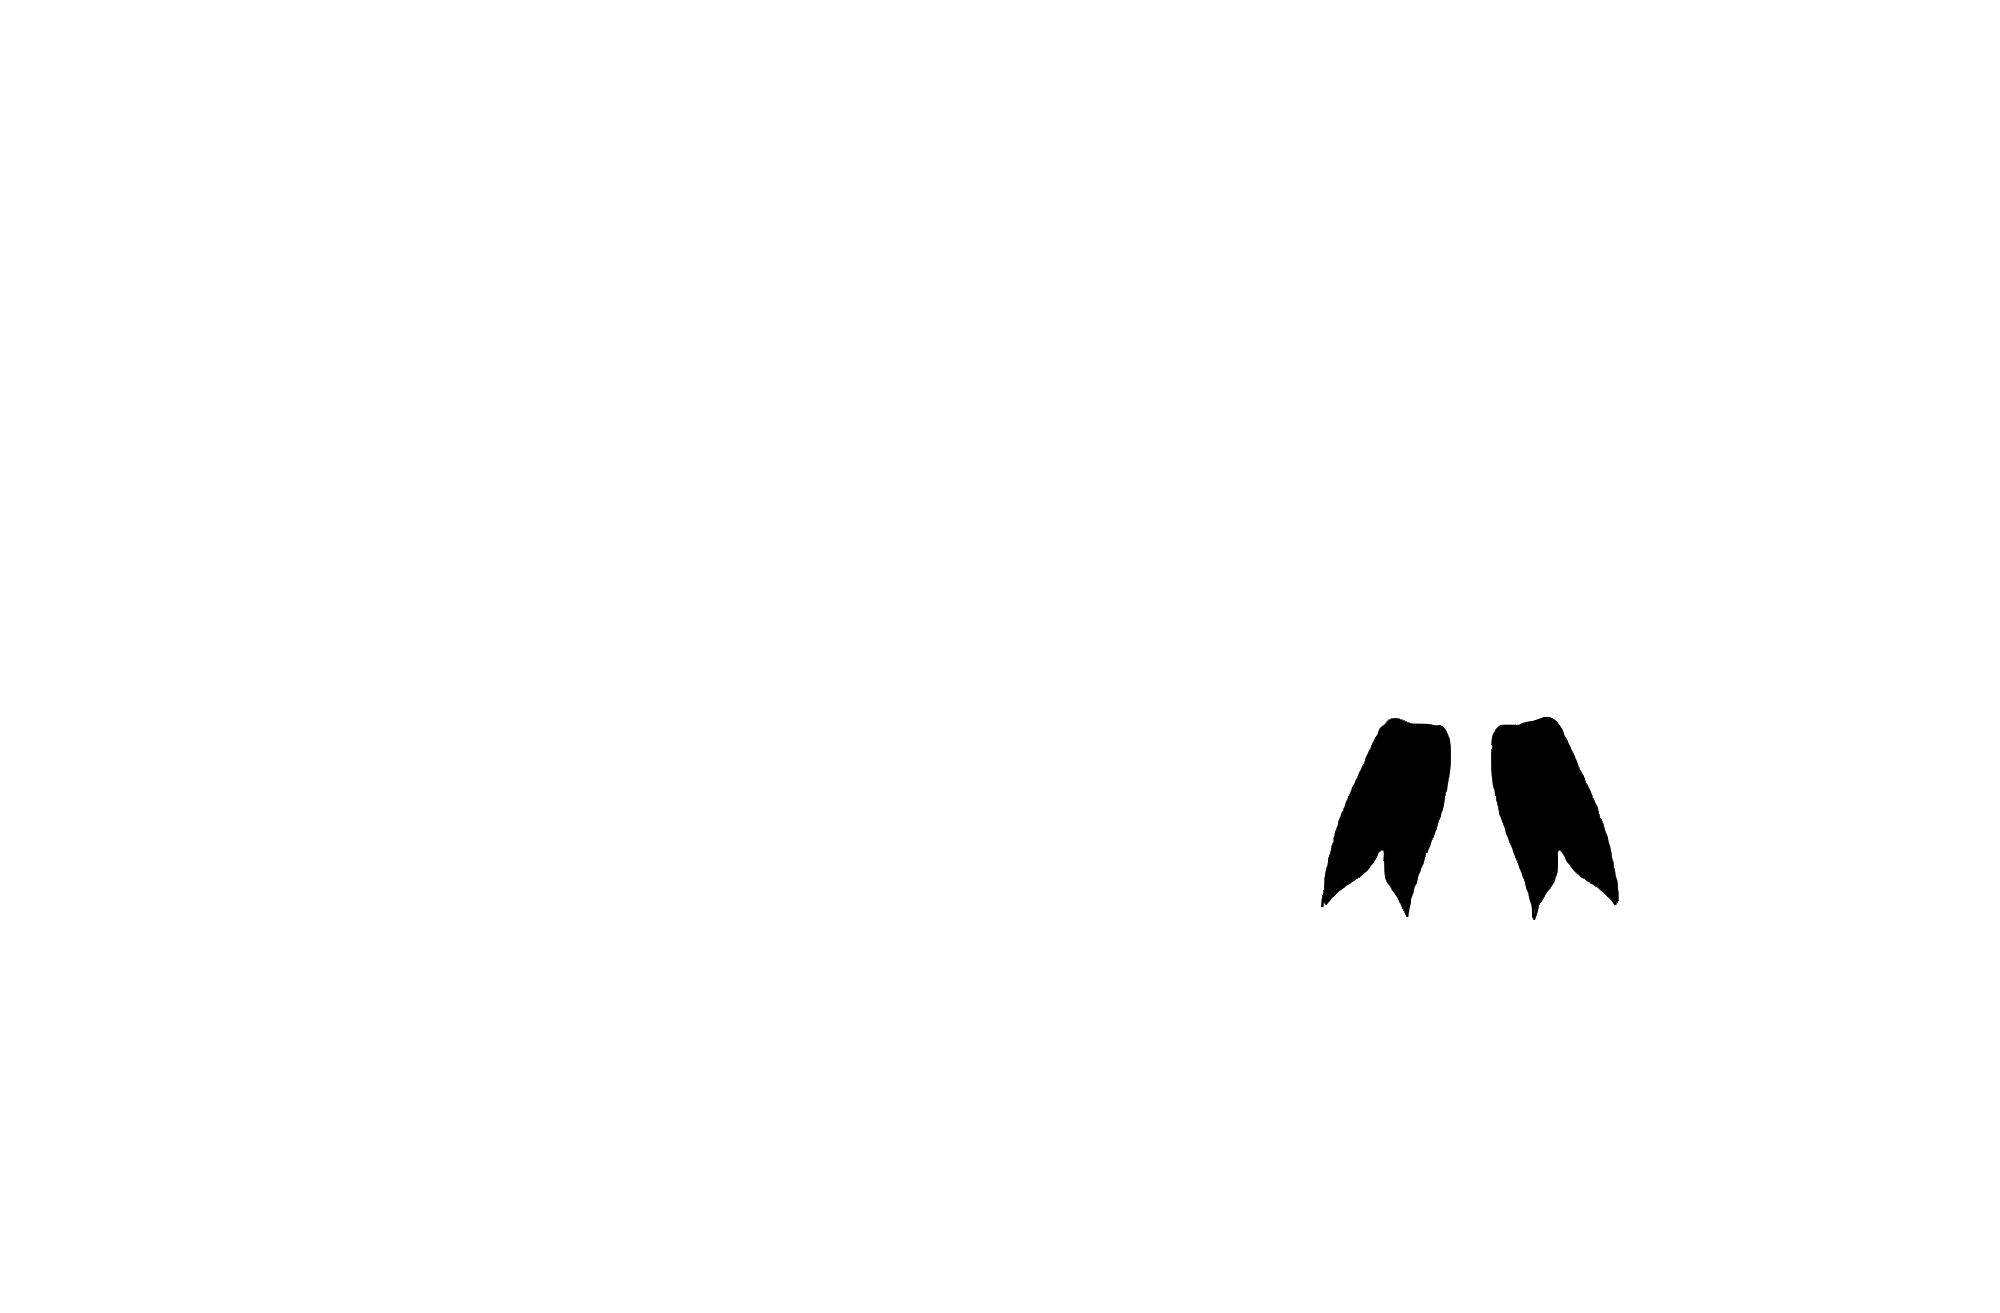
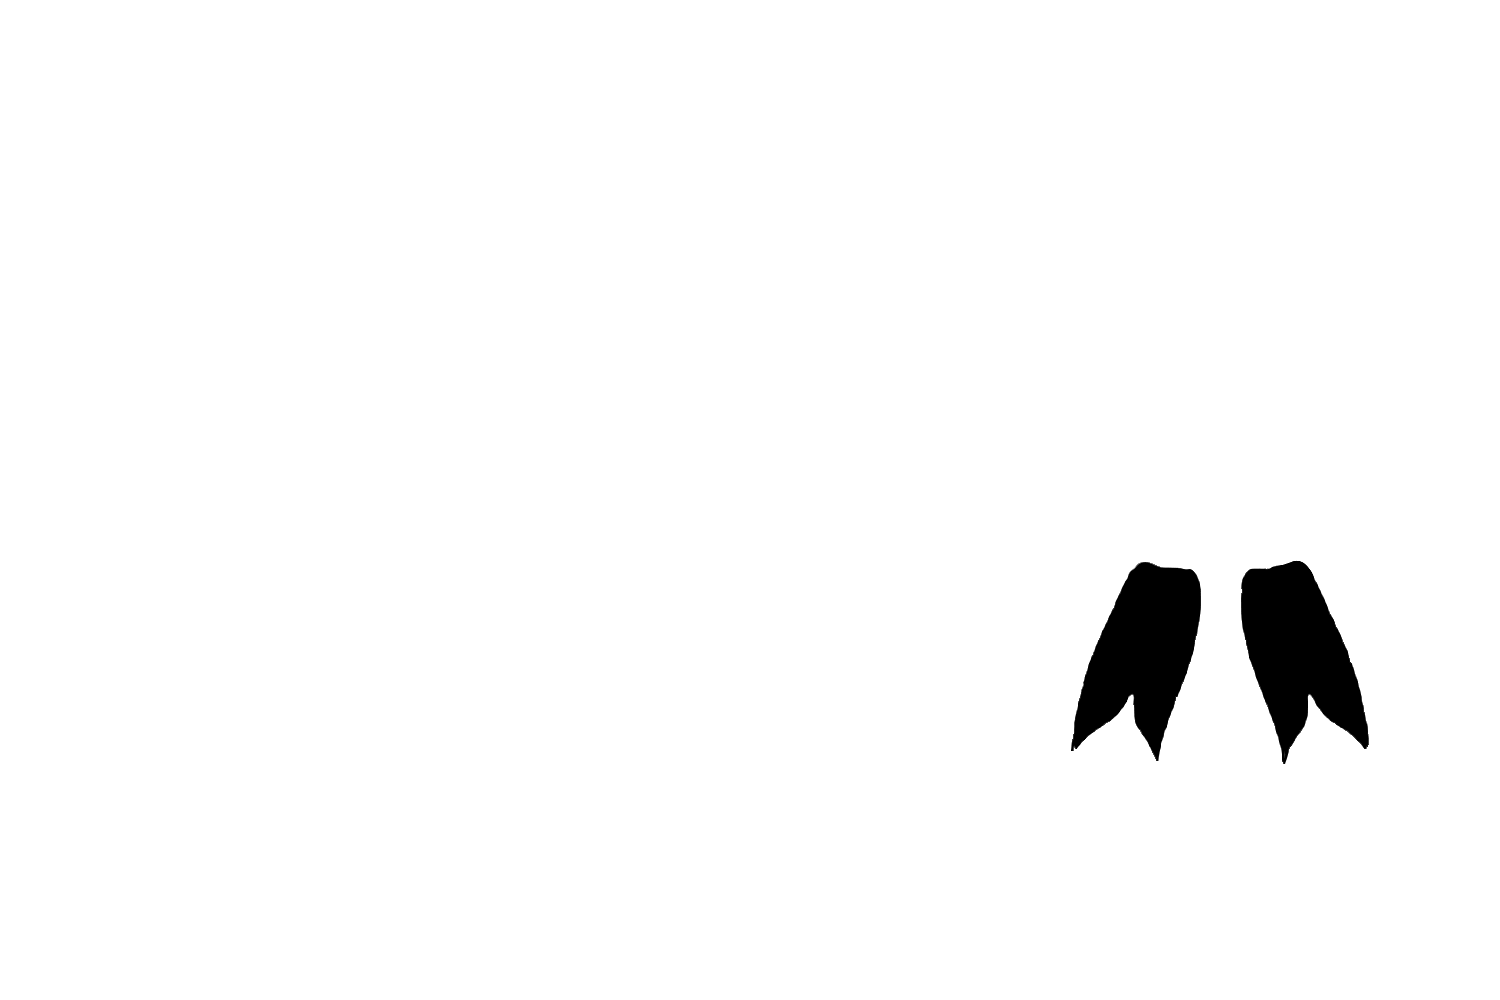
Trimmed muscle images

Changed region(s): [[0.644, 0.527, 0.92, 0.744]]

diff --git a/app/src/components/MuscleStatus.tsx b/app/src/components/MuscleStatus.tsx
@@ -43,19 +43,21 @@ export function MuscleStatus({intensityData} : Props): ReactElement {
 
 
     return (
-        <div className="muscle-container">
-            <img src={abdomen} alt="abdomen" className={"muscle " + translateIntensity(intensityData.abdomen)}/>
-            <img src={back} alt="back" className={"muscle " + translateIntensity(intensityData.back)}/>
-            <img src={biceps} alt="biceps" className={"muscle " + translateIntensity(intensityData.biceps)}/>
-            <img src={deltoid} alt="deltoid" className={"muscle " + translateIntensity(intensityData.deltoid)}/>
-            <img src={chest} alt="chest" className={"muscle " + translateIntensity(intensityData.chest)}/>
-            <img src={calves} alt="calves" className={"muscle " + translateIntensity(intensityData.calves)}/>
-            <img src={forearms} alt="forearms" className={"muscle " + translateIntensity(intensityData.forearms)}/>
-            <img src={gluteus} alt="gluteus" className={"muscle " + translateIntensity(intensityData.gluteus)}/>
-            <img src={hamstrings} alt="hamstrings" className={"muscle " + translateIntensity(intensityData.hamstrings)}/>
-            <img src={quadriceps} alt="quadriceps" className={"muscle " + translateIntensity(intensityData.quadriceps)}/>
-            <img src={trapezius} alt="trapezius" className={"muscle " + translateIntensity(intensityData.trapezius)}/>
-            <img src={triceps} alt="calves" className={"muscle " + translateIntensity(intensityData.triceps)}/>
+        <div className="body-window">
+            <div className="muscle-container">
+                <img src={abdomen} alt="abdomen" className={"muscle " + translateIntensity(intensityData.abdomen)}/>
+                <img src={back} alt="back" className={"muscle " + translateIntensity(intensityData.back)}/>
+                <img src={biceps} alt="biceps" className={"muscle " + translateIntensity(intensityData.biceps)}/>
+                <img src={deltoid} alt="deltoid" className={"muscle " + translateIntensity(intensityData.deltoid)}/>
+                <img src={chest} alt="chest" className={"muscle " + translateIntensity(intensityData.chest)}/>
+                <img src={calves} alt="calves" className={"muscle " + translateIntensity(intensityData.calves)}/>
+                <img src={forearms} alt="forearms" className={"muscle " + translateIntensity(intensityData.forearms)}/>
+                <img src={gluteus} alt="gluteus" className={"muscle " + translateIntensity(intensityData.gluteus)}/>
+                <img src={hamstrings} alt="hamstrings" className={"muscle " + translateIntensity(intensityData.hamstrings)}/>
+                <img src={quadriceps} alt="quadriceps" className={"muscle " + translateIntensity(intensityData.quadriceps)}/>
+                <img src={trapezius} alt="trapezius" className={"muscle " + translateIntensity(intensityData.trapezius)}/>
+                <img src={triceps} alt="calves" className={"muscle " + translateIntensity(intensityData.triceps)}/>
+            </div>
         </div>
     );
 }

diff --git a/app/src/components/MuscleStatus.css b/app/src/components/MuscleStatus.css
@@ -1,11 +1,18 @@
 
 
+.body-window {
+    background-color: #454d5c;
+    height: 28rem;
+    width: 50rem;
+}
+
 .muscle {
     position: absolute;
+    display: block;
     left: 0rem;
     top: 0rem;
     z-index: 1;
-    width: 30rem;
+    width: 100%;
 }
 /* mmm very nice, css magic */
 /* lifesaver: https://codepen.io/sosuke/pen/Pjoqqp */
